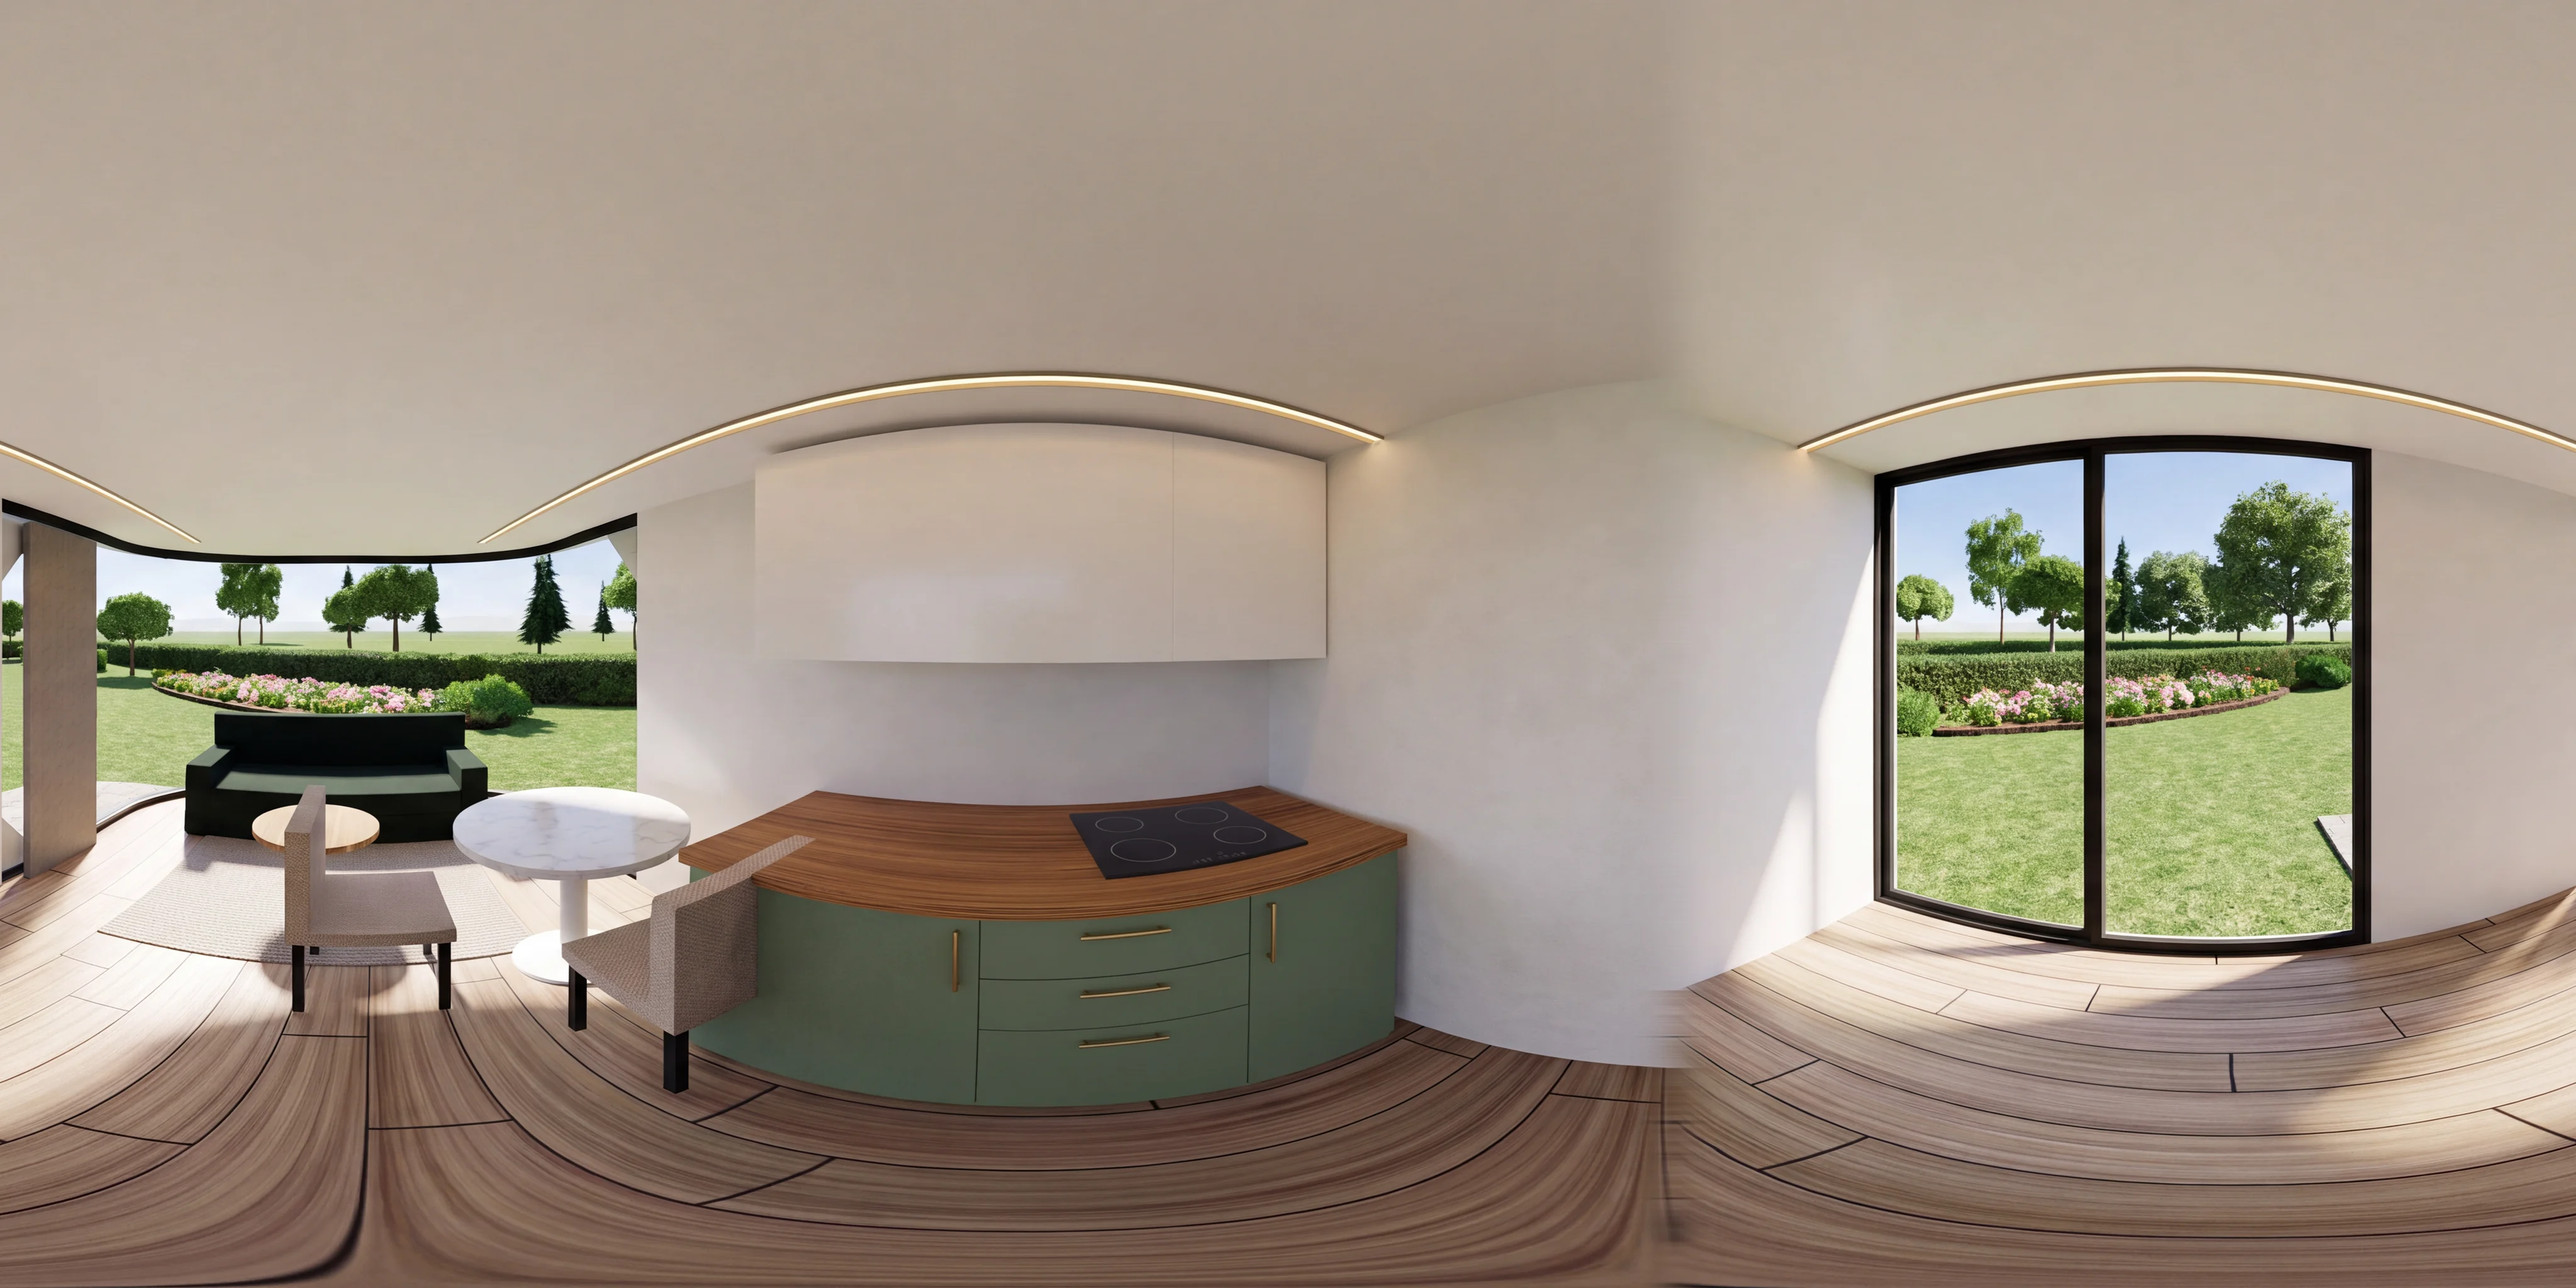
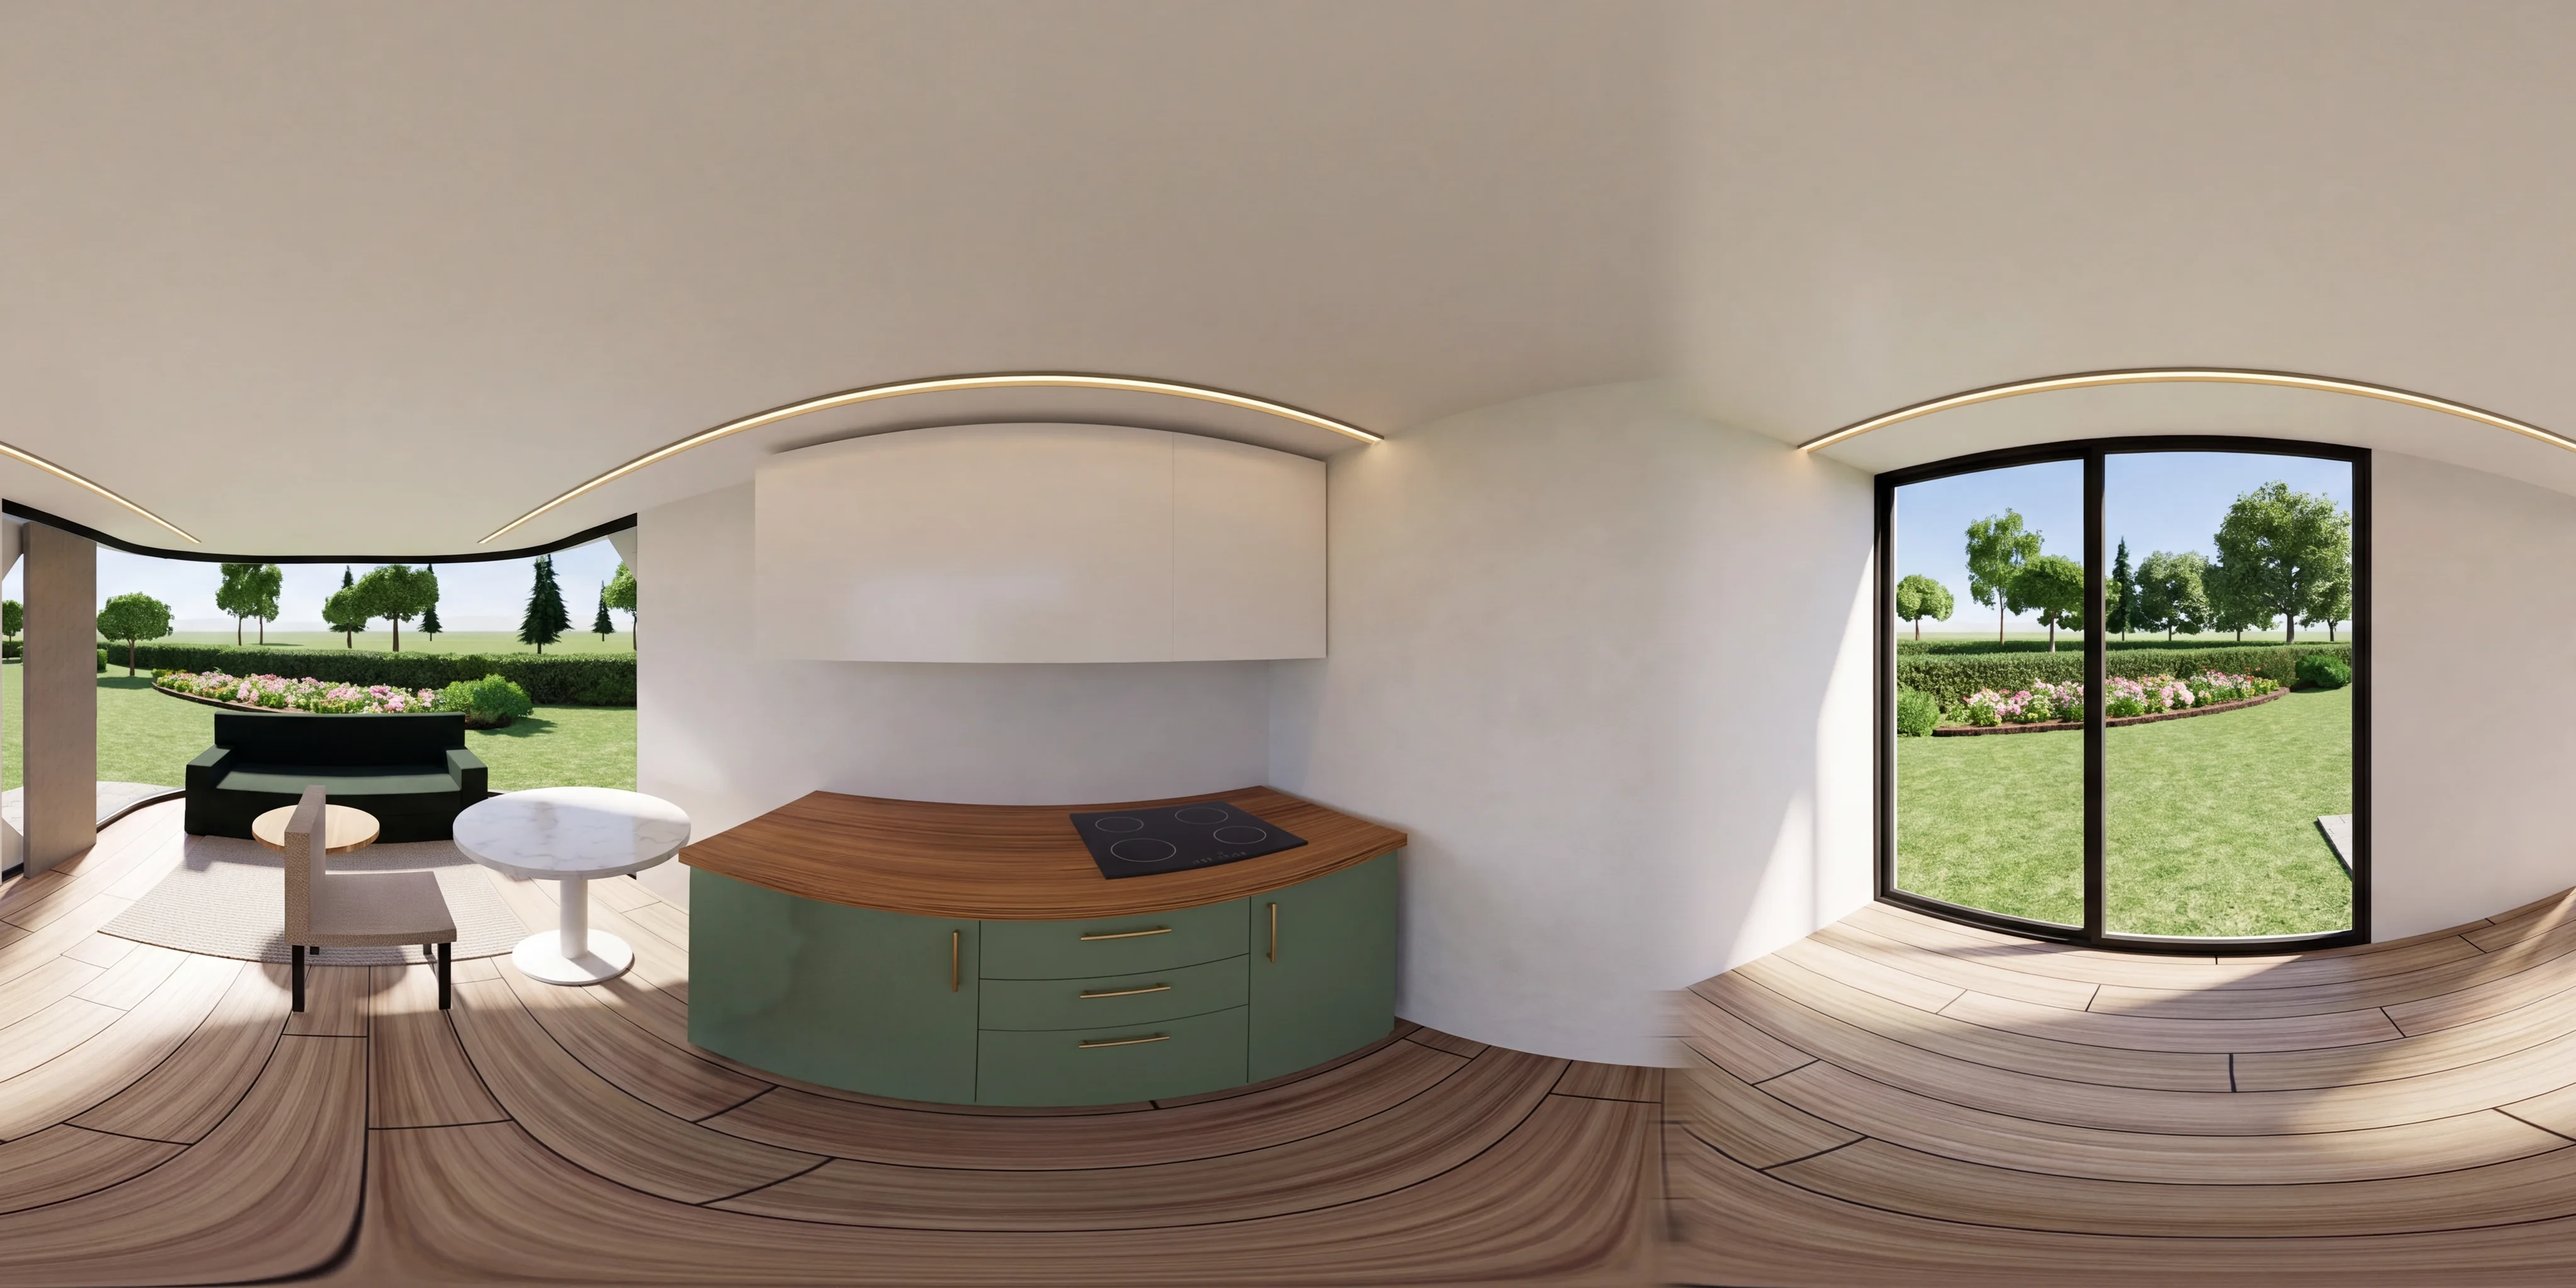
E7: scaunul „intrat în bucătărie” scos din imaginile camerelor (retuș)
Cerut de client pe 17 nov 2026 („aici scaunul este intrat în bucătărie”). În cele două
imagini 360° ale lui E7 (living, bucătărie) scaunul care trecea prin corpul de bucătărie
a fost scos printr-un retuș pe bucăți (309 credite, din cele rămase), lipit la loc doar
unde s-a schimbat ceva. Scriptul, bucățile și rezultatul: surse/ai360/retus/.

Claude-Session: https://claude.ai/code/session_01KQBPBSm1ebqTvHwEmS7Cs6

Changed region(s): [[0.2188, 0.6562, 0.3125, 0.8438]]

diff --git a/surse/ai360/retus/retus_e7.py b/surse/ai360/retus/retus_e7.py
@@ -1,0 +1,50 @@
+# Retușul din 17 nov 2026: scaunul „intrat în bucătărie” din imaginile camerelor E7 (living și bucătărie).
+# Din fiecare panoramă s-a tăiat bucata cu scaunul (living: x 1876–2484, y 936–1704; bucătărie: x 700–1468, y 1100–1868), cele două
+# bucăți au fost puse una lângă alta într-o singură imagine de 1376×768 și date unui model ieftin de editare
+# (gemini-3.1-flash-lite-image, 1K, 16:9: 309 credite; nodul OMfHZTV8Rw0ahpkNGNOL, sursa 5Z0ap2vvqv9QGNvqLFhU), cu cererea „scoate
+# scaunul intrat în corpul verde din ambele fotografii, restul rămâne pixel cu pixel”. Scriptul lipește rezultatul la loc doar acolo
+# unde s-a schimbat ceva (masca = diferența față de original, în cutia scaunului, cu margini estompate), apoi șterge piciorul de
+# scaun rămas sub masă (umplere pe rânduri din pardoseala din stânga și din dreapta).
+#   python3 retus_e7.py <cele două bucăți .png> <rezultatul .jpg> <folderul cu e7_living.webp și e7_bucatarie.webp> <folder ieșire>
+import sys, numpy as np, cv2
+from PIL import Image
+orig_p, res_p, src_dir, out_dir = sys.argv[1:5]
+O = np.asarray(Image.open(orig_p).convert('RGB')).astype(np.float32)
+Rz = np.asarray(Image.open(res_p).convert('RGB').resize((O.shape[1], O.shape[0]), Image.LANCZOS)).astype(np.float32)
+PAN = {'living': (0, 608, (1876, 936), (100, 250, 380, 590)), 'bucatarie': (608, 1376, (700, 1100), (170, 190, 640, 690))}   # x0, x1 în canvas; colțul în panoramă; cutia scaunului (în bucată)
+for name, (x0, x1, (px, py), (bx0, by0, bx1, by1)) in PAN.items():
+    o, r = O[:, x0:x1], Rz[:, x0:x1].copy()
+    # potrivire: deplasare întreagă mică (căutată pe zonele neschimbate) și corecție de culoare
+    out_box = np.ones(o.shape[:2], bool); out_box[by0:by1, bx0:bx1] = False
+    best = (1e9, 0, 0)
+    for dy in range(-3, 4):
+        for dx in range(-3, 4):
+            sh = np.roll(np.roll(r, dy, 0), dx, 1); e = np.abs(sh - o)[8:-8, 8:-8][out_box[8:-8, 8:-8]].mean()
+            if e < best[0]: best = (e, dy, dx)
+    e, dy, dx = best; r = np.roll(np.roll(r, dy, 0), dx, 1)
+    gain = [(o[..., c][out_box].mean() / max(1e-3, r[..., c][out_box].mean())) for c in range(3)]
+    r = r * np.array(gain, np.float32)
+    d = cv2.GaussianBlur(np.abs(r - o).max(2), (0, 0), 2)
+    m = (d > 14).astype(np.uint8); box = np.zeros_like(m); box[by0:by1, bx0:bx1] = 1; m &= box
+    m = cv2.morphologyEx(m, cv2.MORPH_CLOSE, np.ones((21, 21), np.uint8)); m = cv2.dilate(m, np.ones((13, 13), np.uint8))
+    n, lab, st, _ = cv2.connectedComponentsWithStats(m)   # doar petele mari (scaunul), nu zgomotul
+    keep = np.zeros_like(m)
+    for i in range(1, n):
+        if st[i, cv2.CC_STAT_AREA] > 1500: keep[lab == i] = 1
+    a = cv2.GaussianBlur(keep.astype(np.float32), (0, 0), 5)[..., None]
+    comp = o * (1 - a) + r * a
+    print(name, 'deplasare', dy, dx, 'abatere în afara scaunului %.2f' % e, 'culoare', [round(g, 3) for g in gain], 'pixeli schimbați', int(keep.sum()))
+    Image.fromarray(comp.clip(0, 255).astype(np.uint8)).save(f'{out_dir}/{name}_bucata.png')
+    Image.fromarray((keep * 255).astype(np.uint8)).save(f'{out_dir}/{name}_masca.png')
+    if name == 'living':   # piciorul negru rămas sub masă
+        c = comp.clip(0, 255).astype(np.uint8); x0, y0, x1, y1 = 117, 488, 143, 543
+        mk = cv2.dilate((c[y0:y1, x0:x1].astype(np.float32).mean(2) < 48).astype(np.uint8), np.ones((5, 5), np.uint8)); comp = c.astype(np.float32)
+        for j in range(mk.shape[0]):
+            xs = np.where(mk[j])[0]
+            if not len(xs): continue
+            a0, b0 = xs.min() - 2, xs.max() + 2
+            la = comp[y0 + j, x0 + a0 - 3:x0 + a0 + 1].mean(0); rb = comp[y0 + j, x0 + b0:x0 + b0 + 4].mean(0)
+            for x in range(a0, b0 + 1): t = (x - a0) / max(1, b0 - a0); comp[y0 + j, x0 + x] = la * (1 - t) + rb * t
+    pan = Image.open(f'{src_dir}/e7_{name}.webp').convert('RGB')
+    pan.paste(Image.fromarray(comp.clip(0, 255).astype(np.uint8)), (px, py))
+    pan.save(f'{out_dir}/e7_{name}.webp', 'WEBP', quality=90, method=6)

diff --git a/CLAUDE.md b/CLAUDE.md
@@ -153,12 +153,14 @@ Linkurile acestea se pot actualiza doar dintr-o conversație pe claude.ai. Din C
 - TikTok: @multimester. X7: 36,5 m² utili, 39 m² construiți, 11,5 × 3,4 m, h 3,45 m, 39.500 € cu TVA, rate prin TBI Bank.
 - PDF-uri: https://casecapsula.ro/docs/oferta-capsula-x7-v2.pdf și https://casecapsula.ro/docs/prezentare-tehnica-x7.pdf
 
-## Cerut pe 17 noiembrie 2026 (în lucru; ElevenLabs a rămas fără credite: 606)
-Clientul a trimis patru lucruri. Ce costă credite e **pregătit, nepornit**; i s-a spus că trebuie ≈ 60.000 de credite (≈ 11 $),
-plus ≈ 13.600 dacă vrea și rotirea lui X7 refăcută. Nodurile și pașii: `surse/ai360/CITESTE.md`, partea a șasea.
+## Cerut pe 17 noiembrie 2026 (în lucru; ElevenLabs a rămas fără credite: 297)
+Clientul a trimis patru lucruri. Ce costă credite e **pregătit, nepornit**; i s-a spus că trebuie ≈ 50.000–60.000 de credite
+(≈ 10–11 $: grădina la ferestrele lui X7 ≈ 10.900, casa nouă ≈ 38.600), plus ≈ 13.600 dacă vrea și rotirea lui X7 refăcută. Nodurile și pașii: `surse/ai360/CITESTE.md`, partea a șasea.
 - **„Nu se mișcă lent deloc”** (deschiderea și rotirea caselor): **făcut și publicat** (vezi mai jos „Mișcarea de la deschidere” și „Rotire reală”).
-- **„Aici scaunul este intrat în bucătărie”** (E7, living): scaunul a fost mutat în model (`site/js/h_e7.js`), dar imaginile camerelor
-  (living, bucătărie) sunt încă cele vechi: se refac cu cele două noduri pregătite (≈ 4.550 de credite). În planul lui E7 scaunul nu apare.
+- **„Aici scaunul este intrat în bucătărie”** (E7, living): **rezolvat și publicat** printr-un retuș ieftin (309 credite, din cele
+  rămase): scaunul a fost scos din cele două imagini ale camerelor (living, bucătărie); masa are acum un singur scaun în imagini.
+  În model scaunul e mutat lângă masă (`site/js/h_e7.js`); cele două noduri de refacere completă (≈ 4.550 de credite) rămân
+  opționale, pentru când vrea ambele scaune la locul lor. Cum s-a făcut: `surse/ai360/retus/retus_e7.py`.
 - **„Aici aș vrea să arate din grădină… nu din parcare”** (X7, interior: fotografiile reale 360° din showroom): pe geamuri se va pune
   grădina, cu AI, doar în cele patru fotografii de zi cu ferestre (living, masă, blat, dormitor); restul fotografiei rămâne neatins.
   Noduri pregătite (≈ 10.900 de credite). Copiile cu grădina se folosesc **doar în grădină** (turul 360° păstrează fotografiile

diff --git a/surse/ai360/CITESTE.md b/surse/ai360/CITESTE.md
@@ -314,7 +314,11 @@ asta”, „aici scaunul este intrat în bucătărie” (E7), „aici aș vrea s
 avea 606 credite, deci **nimic din ce e mai jos n-a fost pornit**: sursele sunt atașate în flux și nodurile sunt făcute. Când sunt
 credite: `creative_run_flow_nodes` cu `generations_count: 1` (întâi `estimate_only: true`). Ordinea: E7 → X7 → C20.
 
-## 1. E7: scaunul scos din bucătărie (≈ 4.550 de credite)
+## 1. E7: scaunul scos din bucătărie (≈ 4.550 de credite; între timp rezolvat cu un retuș de 309 credite)
+**Făcut pe 17 nov, din creditele rămase:** scaunul a fost scos din cele două imagini printr-un retuș pe bucăți (cele două bucăți
+puse într-o singură imagine de 1376×768, `gemini-3.1-flash-lite-image` la 1K: 309 credite; nodul `OMfHZTV8Rw0ahpkNGNOL`, sursa
+`5Z0ap2vvqv9QGNvqLFhU`), lipit la loc cu `retus/retus_e7.py` (în `retus/` sunt și bucățile și rezultatul). Imaginile de pe site
+au acum masa cu un singur scaun. Refacerea completă de mai jos a rămas opțională (ar aduce al doilea scaun la locul lui).
 Al doilea scaun de la masa rotundă intra în corpul de bucătărie. În model a fost mutat (`site/js/h_e7.js`:
 `put(F.chair(M), -3.58, -.82, Math.PI / 2)`), iar sursele 360° au fost refăcute din aceleași puncte (`e7_living_src.jpg`,
 `e7_bucatarie_src.jpg`). În planul lui E7 (`pl_e7_1`) scaunul nu se vede, deci planul rămâne.
